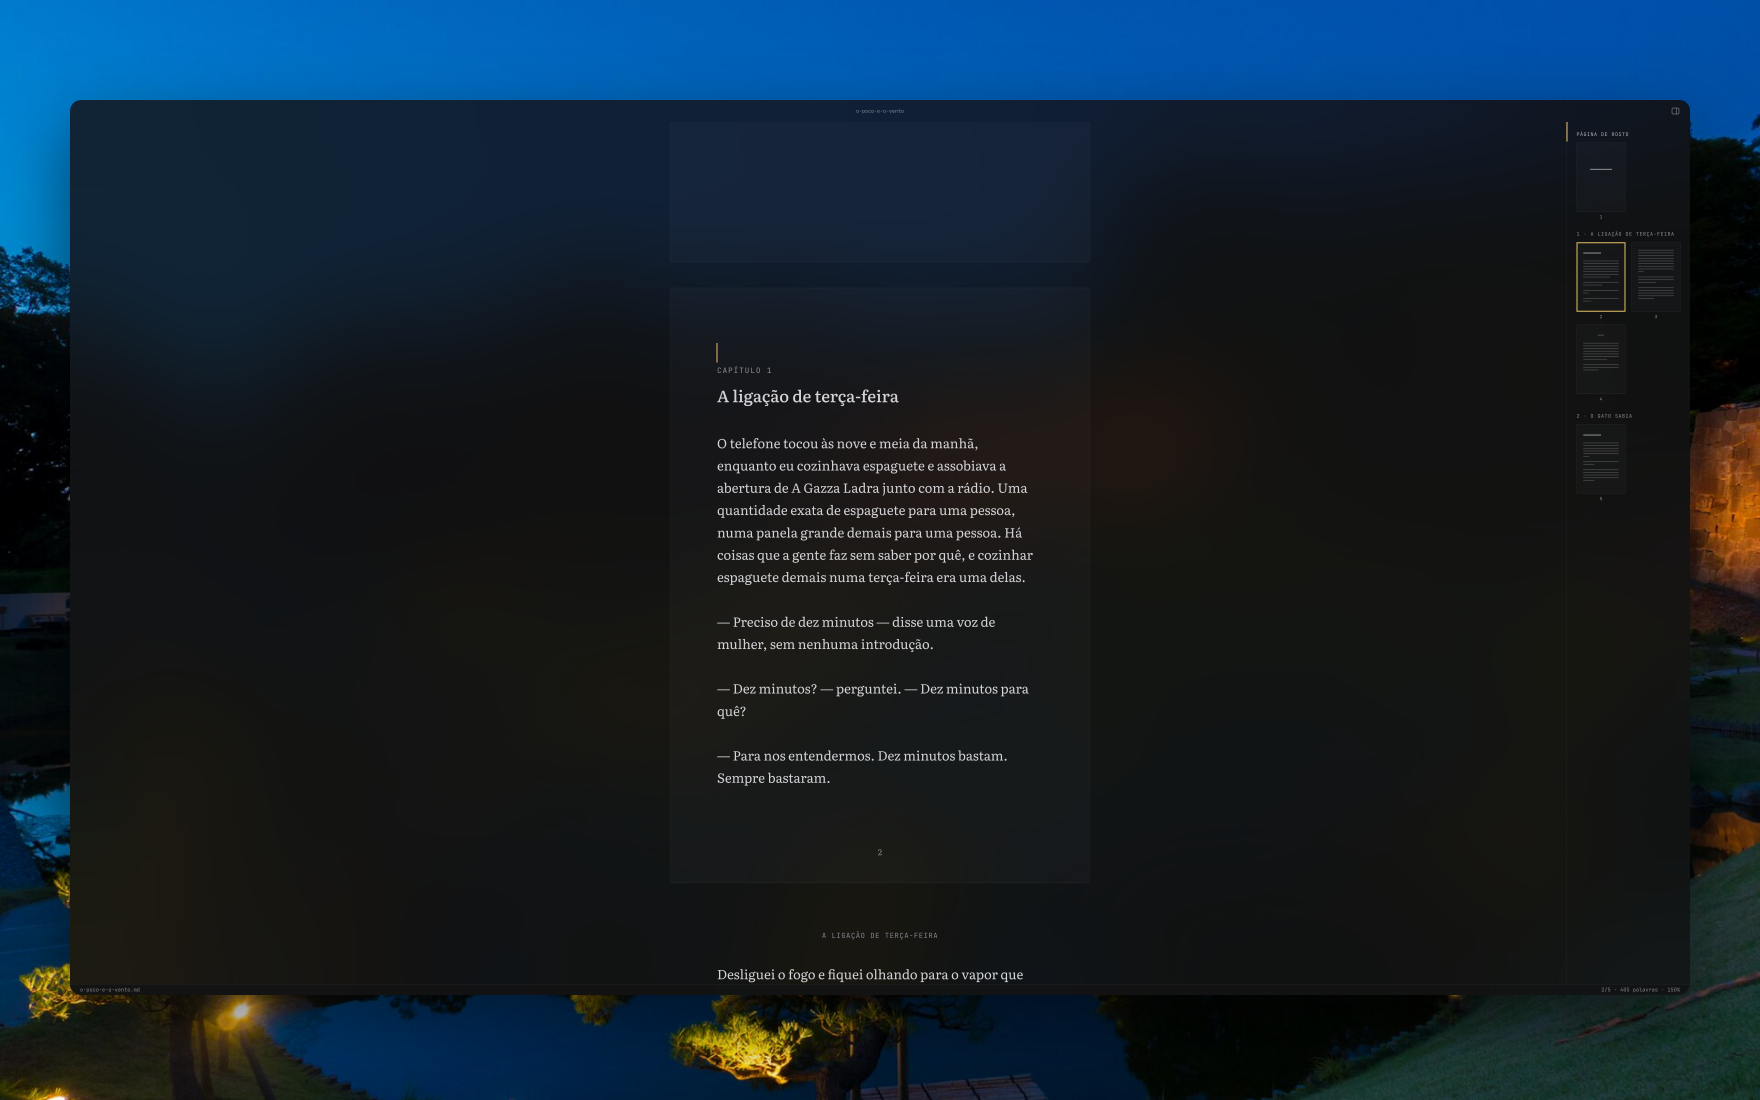
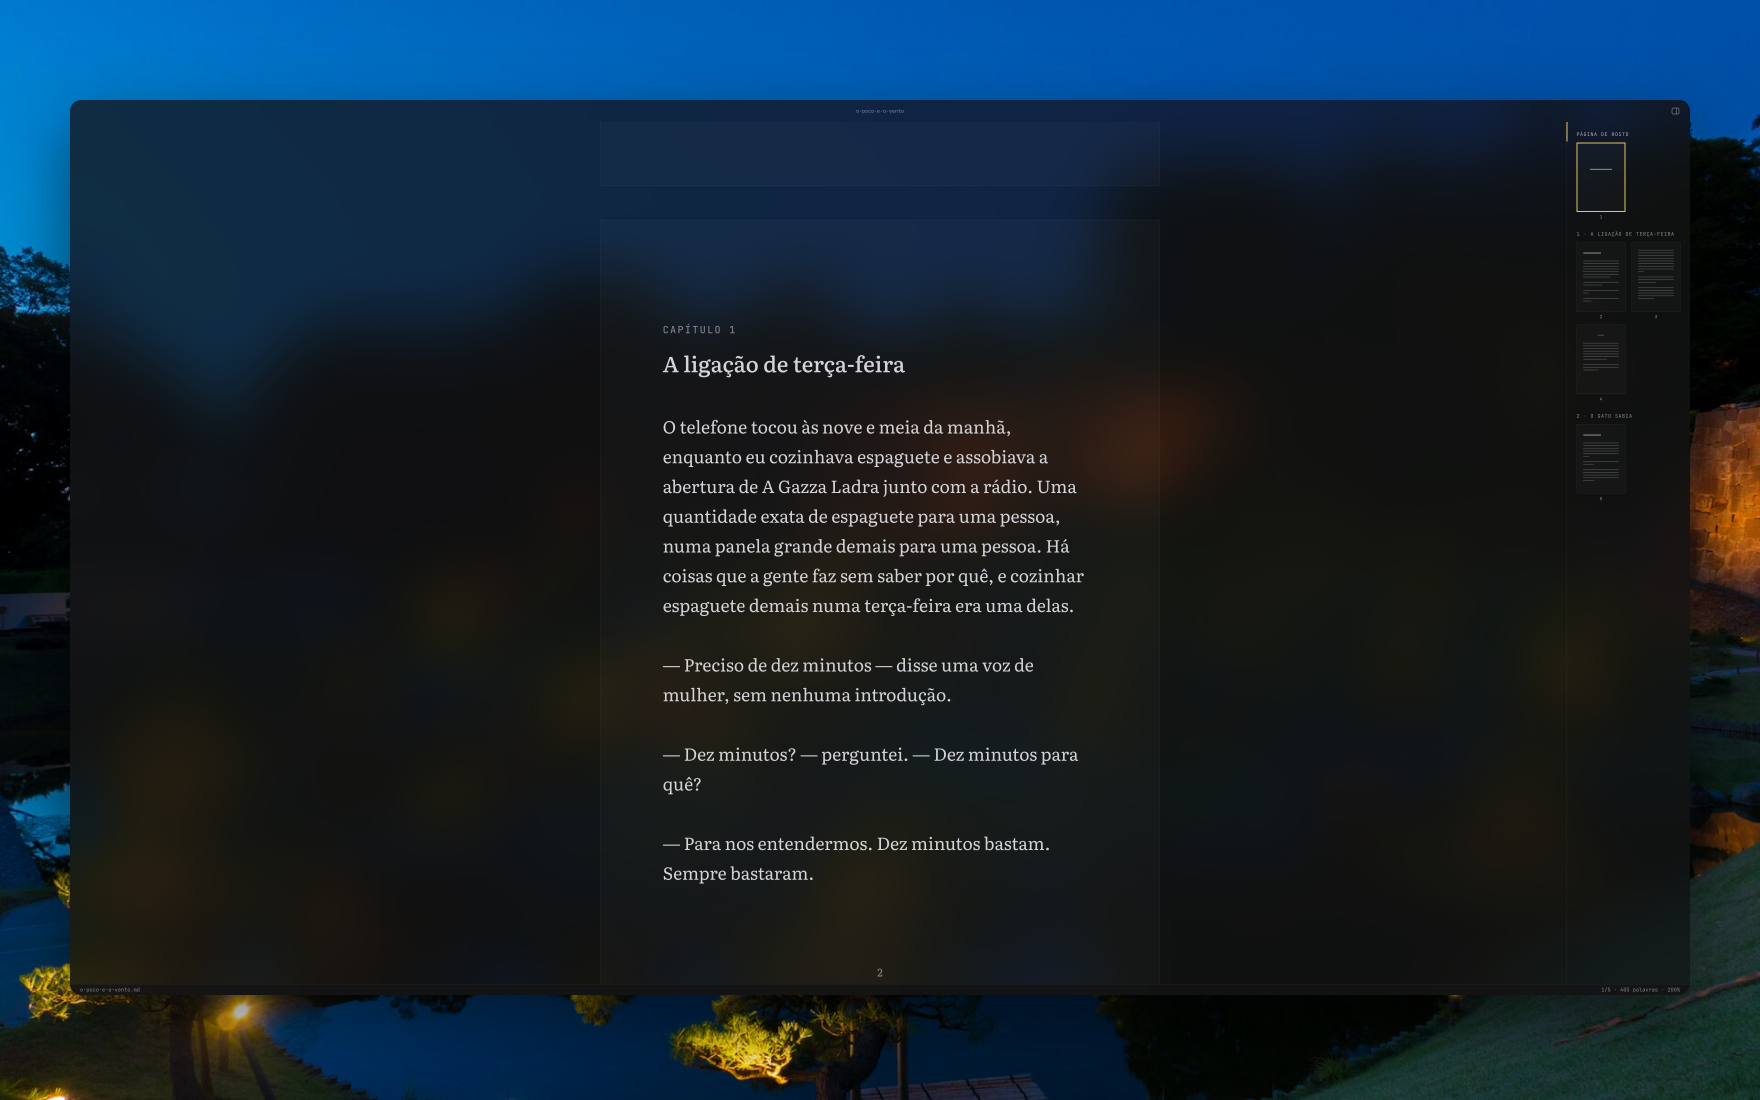
feel: lift the chrome's translucency
The material wash drops 0.86 → 0.80 so more of the desktop breathes
through the vibrancy; demo screenshot re-rendered to match (and with
a lighter emulated blur so the backdrop reads as shapes, not wash).

diff --git a/src/renderer/styles/app.css b/src/renderer/styles/app.css
@@ -199,7 +199,7 @@
    un-layered token definition by source order and vibrancy blurs through body.
    html itself is clear so only body's var(--m-bg) paints the material. */
 html.theme-dark {
-  --m-bg: rgba(19, 19, 20, 0.86);
+  --m-bg: rgba(19, 19, 20, 0.8);
   --mb-serif: "Literata Variable", Georgia, serif;
   /* The A5 sheet's surface — a whisper above the backdrop so the page reads as
      an object without breaking the vibrancy; its trim is marked by --m-hair. */
